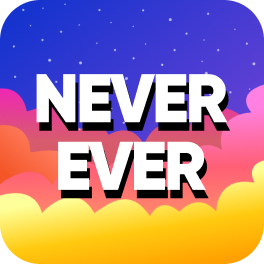
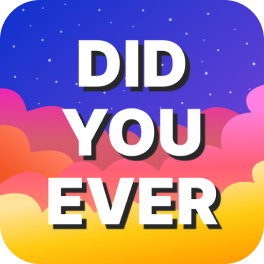
renamed "Never Have I Ever" to "Did You Ever".

diff --git a/src/data/data.js b/src/data/data.js
@@ -24,10 +24,10 @@ import img_4 from "../assets/images/background_4.webp";
 export const data = [
   {
     logo: { x1: neverEver, x2: neverEver2, x3: neverEver3 },
-    title: "never have i ever",
+    title: "Did You Ever",
     description: {
       text: [
-        "Never have I ever... ",
+        "Did You Ever... ",
         "Stop ",
         "racking your brain ",
         "to complete this statement. Just download our game. It will make even the most boring ",

diff --git a/src/screens/PrivacyNeverEver/index.tsx b/src/screens/PrivacyNeverEver/index.tsx
@@ -6,7 +6,7 @@ import info from "../../data/privacyNeverEver.json";
 const PrivacyNeverEver = () => {
   const { description, dateUpdate } = info.main.privacy;
 
-  const privacyPolicy = "Never Have I Ever. Privacy Policy";
+  const privacyPolicy = "Did You Ever. Privacy Policy";
 
   return (
     <DocumentWrapper>

diff --git a/src/screens/TermsNeverEver/index.tsx b/src/screens/TermsNeverEver/index.tsx
@@ -6,7 +6,7 @@ import info from "../../data/termsNeverEver.json";
 const TermsNeverEver = () => {
   const { description, dateUpdate } = info.main.terms;
 
-  const termsOfUse = "Never Have I Ever. Terms of Use";
+  const termsOfUse = "Did You Ever. Terms of Use";
 
   return (
     <DocumentWrapper>
